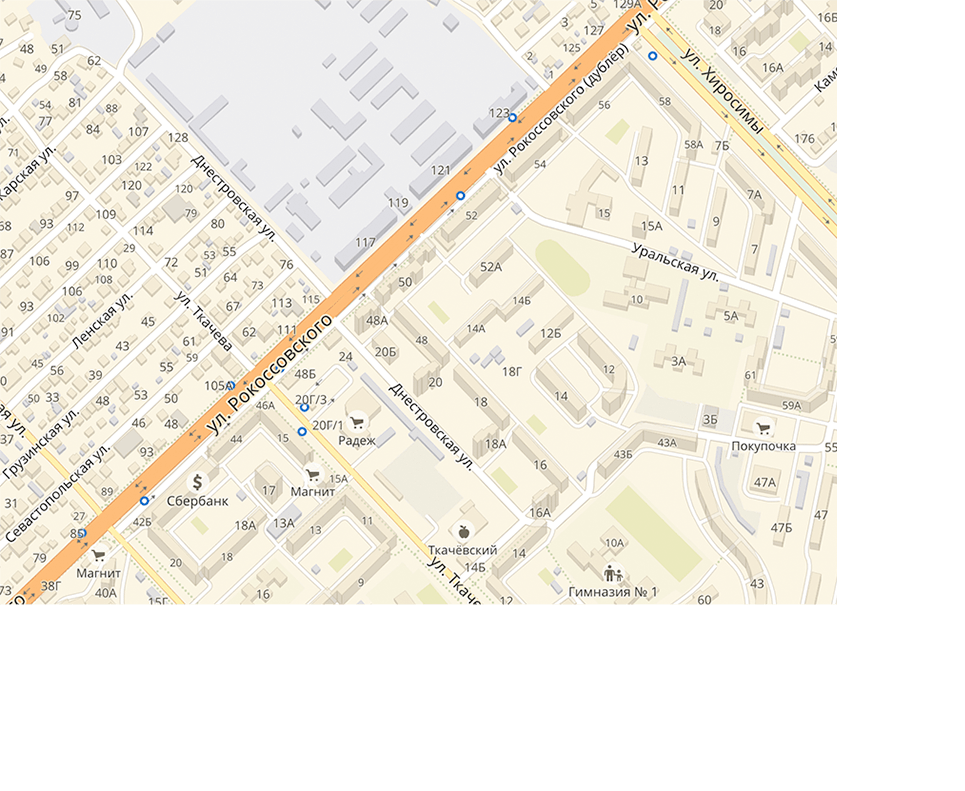
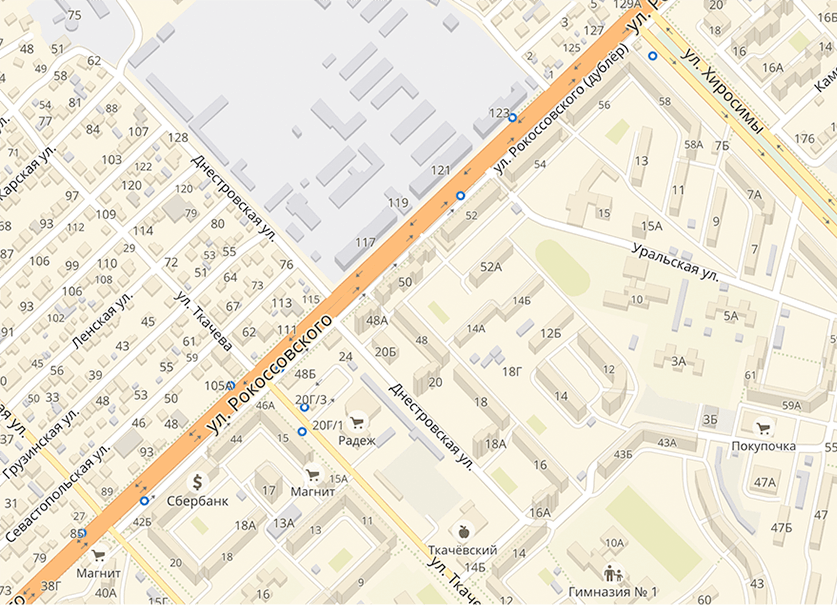
прописывает оступы между блоков в contacts

diff --git a/markup/src/pages/index.html b/markup/src/pages/index.html
@@ -1,5 +1,5 @@
 <body>
-  <div display="none">
+  <div style="display:none">
     <svg>
       <symbol id="icon-star-full" viewBox="0 0 32 32">
         <path d="M32 12.408l-11.056-1.607-4.944-10.018-4.944 10.018-11.056 1.607 8 7.798-1.889 11.011 9.889-5.199 9.889 5.199-1.889-11.011 8-7.798z"></path>
@@ -111,7 +111,7 @@
           </li>
         </ul>
         <div class="contacts__map map_canvas">
-          <img src="assets/img/map-mobile.png" alt="Адрес: Россия, г. Краснодар, ул. Карла Маркса 72, офис-367, третий этаж">
+          <img src="assets/img/map-mobile.png" alt="Адрес: Россия, г. Краснодар, ул. Карла Маркса 72, офис-367, третий этаж" width="425" height="388">
         </div>
       </section>
       <section class="feedback">

diff --git a/markup/src/assets/scss/components/_contacts.scss b/markup/src/assets/scss/components/_contacts.scss
@@ -1,8 +1,13 @@
+.contacts {
+  margin-bottom: 60px;
+}
 .contacts__main-title {
+  margin-bottom: 45px;
   @include font-set(36px, 25px, bold, #000000, left);
 }
 
 .contacts__title {
+  margin-bottom: 20px;
   @include font-set(27.24px, 28.39px, bold, #000000, left);
 }
 
@@ -14,6 +19,17 @@
   @include list-reset;
 }
 
+.contacts__list-item {
+  margin-bottom: 40px;
+}
+
 .contacts__text {
   @include font-set(18.16px, 28.39px, normal, #000000, left);
+}
+
+.contacts__map img {
+  display: block;
+  width: 425px;
+  height: 390px;
+  box-shadow: 10px 10px 30px 10px #ffedef;
 }

diff --git a/markup/src/assets/scss/components/_container.scss b/markup/src/assets/scss/components/_container.scss
@@ -6,8 +6,9 @@
     background-color: #fff0ed;
   }
 
-  .container__wrapper {
-    background-color: $white;
+.container__wrapper {
+  padding: 0 25px;
+  background-color: $white;
   }
   
   @media (min-width: $desktop-width) {

diff --git a/markup/src/assets/scss/components/_reviews.scss b/markup/src/assets/scss/components/_reviews.scss
@@ -5,7 +5,8 @@
   width: 360px;
   padding-top: 40px;
   padding-bottom: 40px;
-  box-shadow: 10px 0 30px 10px #ffedef;
+  margin-bottom: 75px;
+  box-shadow: 10px 10px 30px 10px #ffedef;
 }
 
 .reviews__title {
